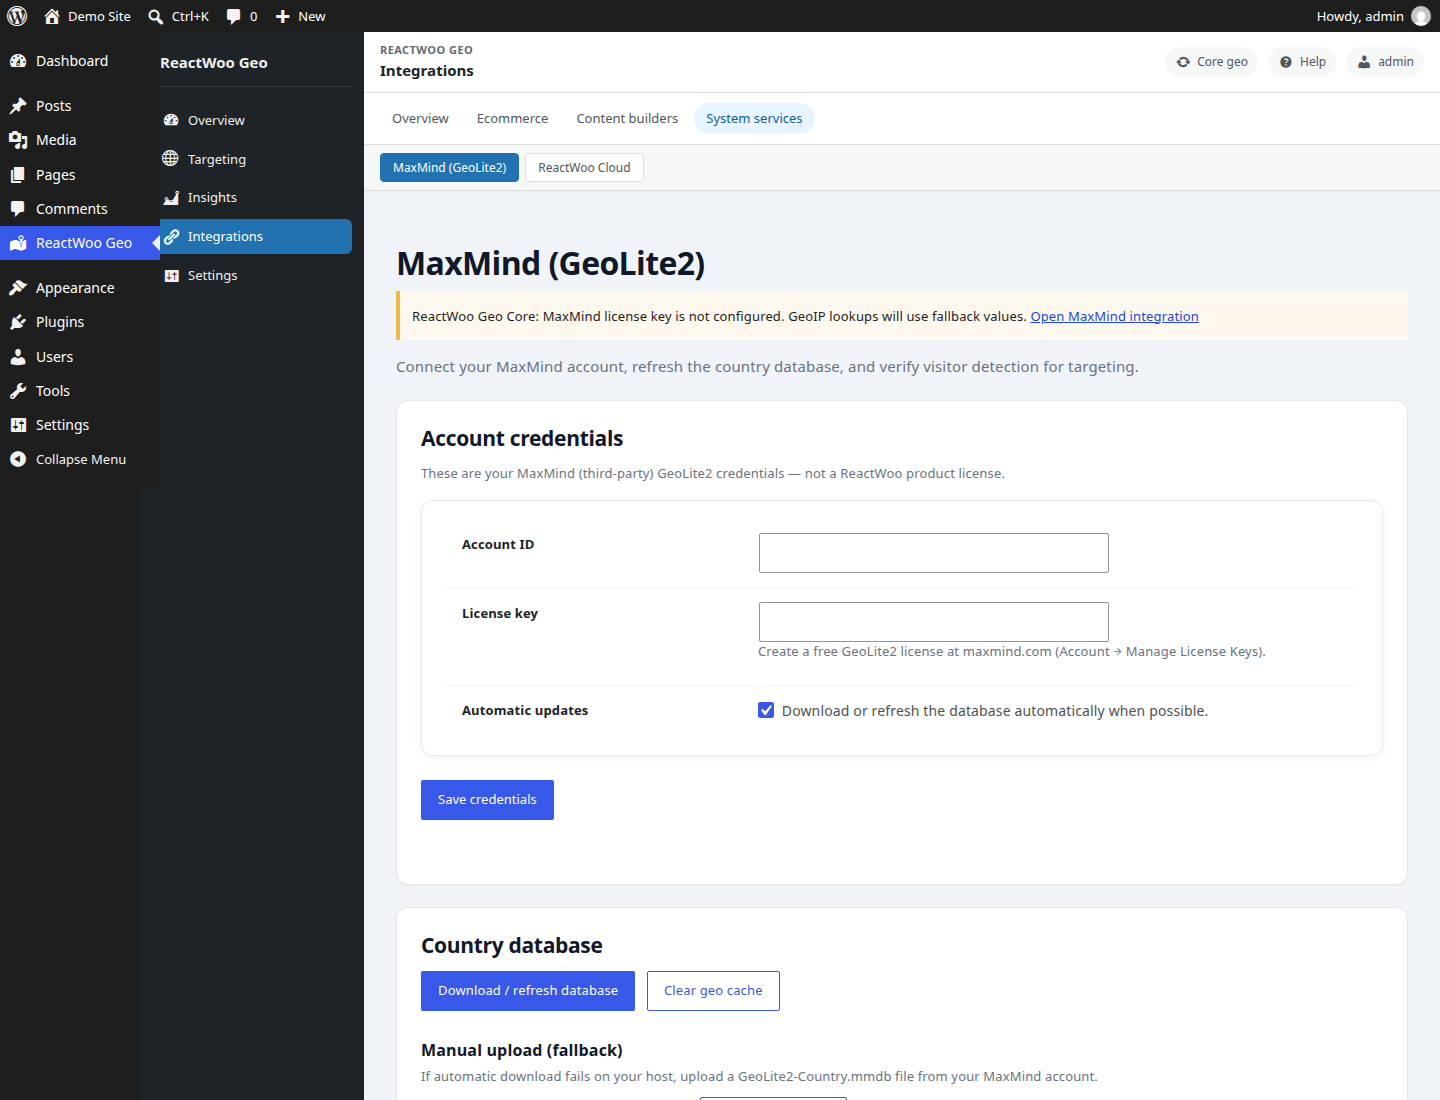
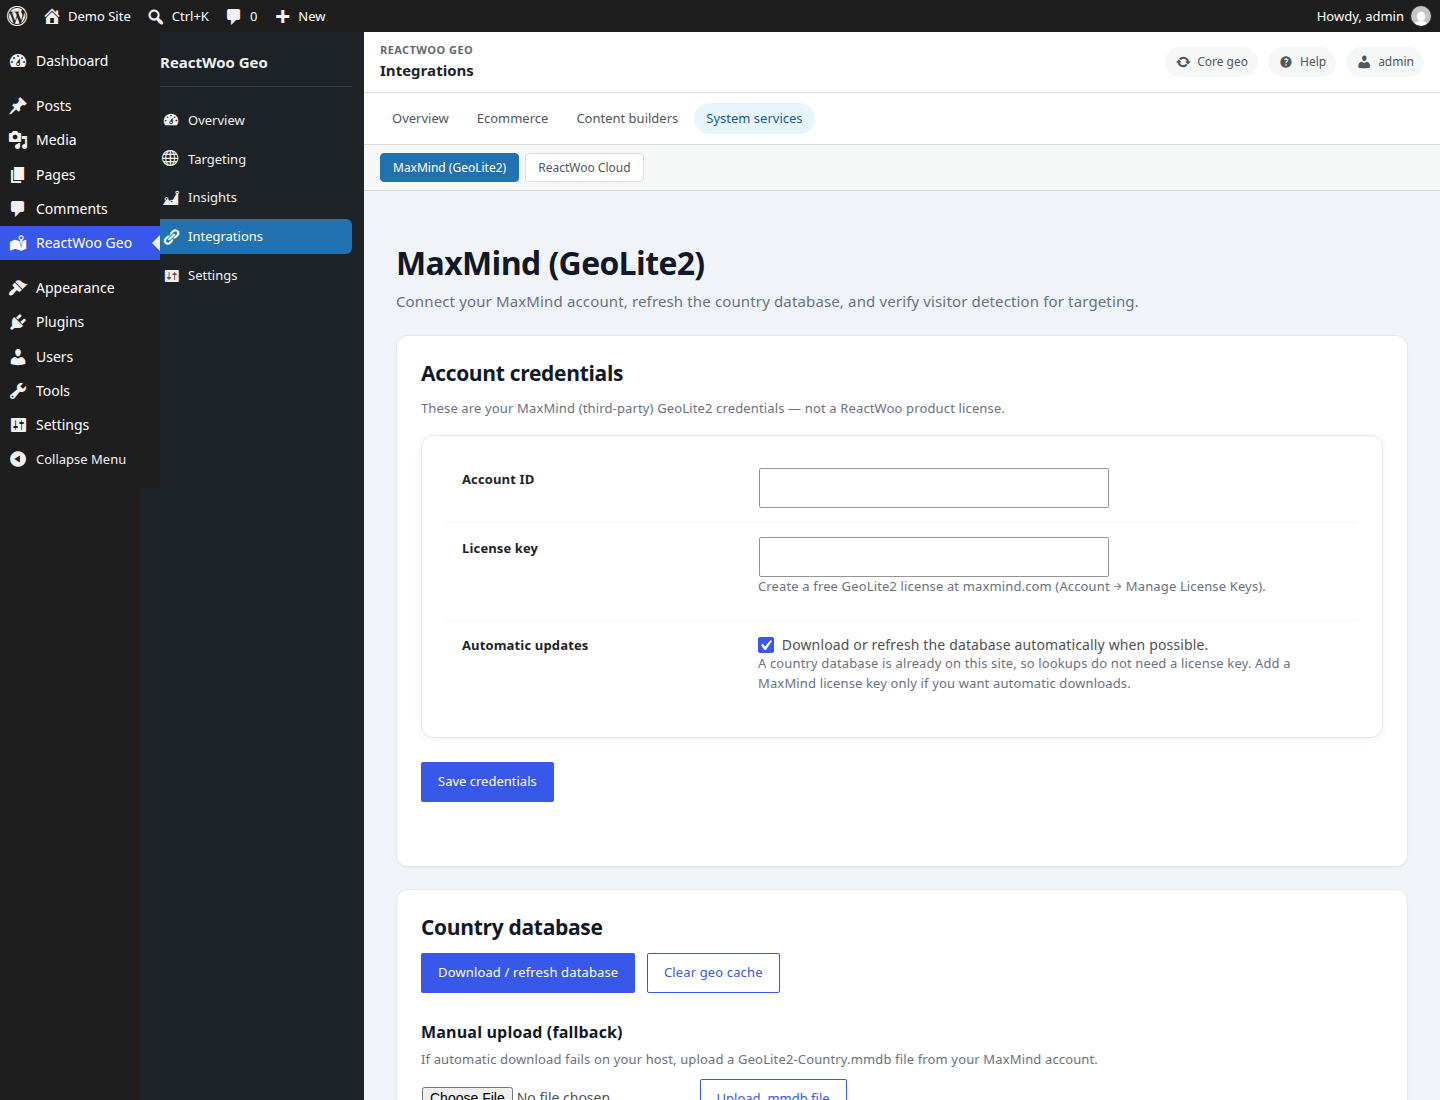
Fix the MaxMind notice and the Geo Content editor script.
Warn only when there is no usable country database and no key to download one. Load the block from file:./index.js so the editor no longer treats it as unsupported.

diff --git a/includes/class-rwgc-maxmind.php b/includes/class-rwgc-maxmind.php
@@ -58,6 +58,61 @@ class RWGC_MaxMind {
 	}
 
 	/**
+	 * Whether a path is a readable MaxMind .mmdb (metadata marker present).
+	 *
+	 * A license key is not required. An uploaded test or production database counts.
+	 *
+	 * @param string|null $path Absolute path. Null uses the configured database path.
+	 * @return bool
+	 */
+	public static function db_is_usable( $path = null ) {
+		if ( null === $path ) {
+			$path = self::get_db_path();
+		}
+		if ( ! is_string( $path ) || '' === $path || ! is_readable( $path ) ) {
+			return false;
+		}
+		if ( 'mmdb' !== strtolower( (string) pathinfo( $path, PATHINFO_EXTENSION ) ) ) {
+			return false;
+		}
+		$size = filesize( $path );
+		if ( false === $size || $size < 128 ) {
+			return false;
+		}
+		$tail_len = (int) min( 131072, $size );
+		// phpcs:ignore WordPress.WP.AlternativeFunctions.file_get_contents_file_get_contents -- Read only the MaxMind metadata tail. WP_Filesystem is not available for this binary check.
+		$tail = file_get_contents( $path, false, null, max( 0, $size - $tail_len ), $tail_len );
+		return is_string( $tail ) && false !== strpos( $tail, "\xab\xcd\xefMaxMind.com" );
+	}
+
+	/**
+	 * Decide the MaxMind admin notice.
+	 *
+	 * A usable database suppresses the license-key warning. The key is required
+	 * only when there is nothing on disk to look up, or for automatic downloads.
+	 *
+	 * @param bool $usable      Readable MaxMind database.
+	 * @param bool $has_license License key saved.
+	 * @param bool $is_stale    Database is past the refresh window.
+	 * @return string Empty when no notice is needed. Otherwise auto_update_hint, stale, no_database, or missing_file.
+	 */
+	public static function admin_notice_code( $usable, $has_license, $is_stale ) {
+		if ( $usable ) {
+			if ( ! $has_license ) {
+				return 'auto_update_hint';
+			}
+			if ( $is_stale ) {
+				return 'stale';
+			}
+			return '';
+		}
+		if ( ! $has_license ) {
+			return 'no_database';
+		}
+		return 'missing_file';
+	}
+
+	/**
 	 * Whether DB appears stale (older than 35 days).
 	 *
 	 * @return bool
@@ -265,6 +320,7 @@ class RWGC_MaxMind {
 		$exists = self::db_exists();
 		return array(
 			'exists'        => $exists,
+			'usable'        => self::db_is_usable(),
 			'path'          => self::get_db_path(),
 			'last_updated'  => RWGC_Settings::get( 'db_last_updated', '' ),
 			'is_stale'      => self::db_is_stale(),

diff --git a/includes/class-rwgc-module-registry.php b/includes/class-rwgc-module-registry.php
@@ -190,19 +190,33 @@ class RWGC_Module_Registry {
 			case self::MODULE_MAXMIND:
 				$settings = class_exists( 'RWGC_Settings', false ) ? RWGC_Settings::get_settings() : array();
 				$has_key  = ! empty( $settings['maxmind_license_key'] );
+				$usable   = class_exists( 'RWGC_MaxMind', false ) && RWGC_MaxMind::db_is_usable();
+				if ( $usable && ! $has_key ) {
+					$detail      = __( 'Country database is on this site. A license key is only needed for automatic updates.', 'reactwoo-geocore' );
+					$status_name = 'ready';
+					$consequence = '';
+				} elseif ( $has_key ) {
+					$detail      = __( 'MaxMind credentials saved.', 'reactwoo-geocore' );
+					$status_name = 'ready';
+					$consequence = '';
+				} else {
+					$detail      = __( 'Upload a country database, or add a MaxMind license key to download one.', 'reactwoo-geocore' );
+					$status_name = 'needs_setup';
+					$consequence = __( 'Without a database, lookups use fallback values.', 'reactwoo-geocore' );
+				}
 				return array_merge(
 					$defaults,
 					array(
-						'status'        => $has_key ? 'ready' : 'needs_setup',
-						'detail'        => $has_key ? __( 'MaxMind credentials saved.', 'reactwoo-geocore' ) : __( 'Add your GeoLite2 license key.', 'reactwoo-geocore' ),
+						'status'        => $status_name,
+						'detail'        => $detail,
 						'configure_url' => function_exists( 'rwgc_get_maxmind_admin_url' ) ? rwgc_get_maxmind_admin_url() : admin_url( 'admin.php?page=rwgc-integrations-maxmind' ),
-						'consequence'   => $has_key ? '' : __( 'Without credentials, downloads and accurate lookups may not work.', 'reactwoo-geocore' ),
+						'consequence'   => $consequence,
 					)
 				);
 
 			case self::MODULE_DB:
-				$status = class_exists( 'RWGC_MaxMind', false ) ? RWGC_MaxMind::get_status() : array( 'exists' => false );
-				$ok     = ! empty( $status['exists'] );
+				$status = class_exists( 'RWGC_MaxMind', false ) ? RWGC_MaxMind::get_status() : array( 'usable' => false );
+				$ok     = ! empty( $status['usable'] );
 				return array_merge(
 					$defaults,
 					array(

diff --git a/includes/class-rwgc-admin.php b/includes/class-rwgc-admin.php
@@ -1506,19 +1506,24 @@ class RWGC_Admin {
 			}
 		}
 
-		$status   = RWGC_MaxMind::get_status();
-		$settings = RWGC_Settings::get_settings();
+		$status = RWGC_MaxMind::get_status();
 
 		$maxmind_url = function_exists( 'rwgc_get_maxmind_admin_url' ) ? rwgc_get_maxmind_admin_url() : admin_url( 'admin.php?page=rwgc-integrations-maxmind' );
+		$notice_code = RWGC_MaxMind::admin_notice_code(
+			! empty( $status['usable'] ),
+			! empty( $status['has_license'] ),
+			! empty( $status['is_stale'] )
+		);
 
-		if ( empty( $settings['maxmind_license_key'] ) ) {
+		// auto_update_hint is shown on the MaxMind screen, not as a warning on every Geo page.
+		if ( 'no_database' === $notice_code ) {
 			printf(
 				'<div class="notice notice-warning rwgc-notice"><p>%1$s <a href="%2$s">%3$s</a></p></div>',
-				esc_html__( 'ReactWoo Geo Core: MaxMind license key is not configured. GeoIP lookups will use fallback values.', 'reactwoo-geocore' ),
+				esc_html__( 'ReactWoo Geo Core: No country database is on this site, and no MaxMind license key is saved to download one. Lookups will use fallback values.', 'reactwoo-geocore' ),
 				esc_url( $maxmind_url ),
 				esc_html__( 'Open MaxMind integration', 'reactwoo-geocore' )
 			);
-		} elseif ( ! $status['exists'] ) {
+		} elseif ( 'missing_file' === $notice_code ) {
 			if ( ! empty( $status['last_error'] ) ) {
 				printf(
 					'<div class="notice notice-warning rwgc-notice"><p>%1$s <a href="%2$s">%3$s</a></p><p><code>%4$s</code></p></div>',
@@ -1535,7 +1540,7 @@ class RWGC_Admin {
 					esc_html__( 'Download or upload the database', 'reactwoo-geocore' )
 				);
 			}
-		} elseif ( $status['is_stale'] ) {
+		} elseif ( 'stale' === $notice_code ) {
 			printf(
 				'<div class="notice notice-info rwgc-notice"><p>%1$s <a href="%2$s">%3$s</a></p></div>',
 				esc_html__( 'ReactWoo Geo Core: MaxMind database may be stale.', 'reactwoo-geocore' ),

diff --git a/tests/Engine/RWGC_MaxMindDatabaseTest.php b/tests/Engine/RWGC_MaxMindDatabaseTest.php
@@ -1,0 +1,47 @@
+<?php
+
+use PHPUnit\Framework\TestCase;
+
+/**
+ * @covers RWGC_MaxMind
+ */
+final class RWGC_MaxMindDatabaseTest extends TestCase {
+
+	public static function setUpBeforeClass(): void {
+		require_once dirname( __DIR__, 2 ) . '/includes/class-rwgc-maxmind.php';
+	}
+
+	public function test_notice_is_silent_when_a_database_is_usable_without_a_license_key(): void {
+		$this->assertSame( 'auto_update_hint', RWGC_MaxMind::admin_notice_code( true, false, false ) );
+	}
+
+	public function test_notice_warns_only_when_database_and_license_key_are_both_missing(): void {
+		$this->assertSame( 'no_database', RWGC_MaxMind::admin_notice_code( false, false, false ) );
+	}
+
+	public function test_notice_asks_for_the_file_when_a_license_key_is_saved(): void {
+		$this->assertSame( 'missing_file', RWGC_MaxMind::admin_notice_code( false, true, false ) );
+	}
+
+	public function test_notice_mentions_a_stale_database_only_when_a_key_can_refresh_it(): void {
+		$this->assertSame( 'stale', RWGC_MaxMind::admin_notice_code( true, true, true ) );
+		$this->assertSame( 'auto_update_hint', RWGC_MaxMind::admin_notice_code( true, false, true ) );
+	}
+
+	public function test_usable_database_requires_the_maxmind_marker(): void {
+		$dir = sys_get_temp_dir() . '/rwgc-mmdb-' . bin2hex( random_bytes( 4 ) );
+		mkdir( $dir );
+		$good = $dir . '/GeoLite2-Country.mmdb';
+		$bad  = $dir . '/notes.mmdb';
+		file_put_contents( $good, str_repeat( 'a', 200 ) . "\xab\xcd\xefMaxMind.com" );
+		file_put_contents( $bad, str_repeat( 'b', 200 ) );
+
+		$this->assertTrue( RWGC_MaxMind::db_is_usable( $good ) );
+		$this->assertFalse( RWGC_MaxMind::db_is_usable( $bad ) );
+		$this->assertFalse( RWGC_MaxMind::db_is_usable( $dir . '/missing.mmdb' ) );
+
+		unlink( $good );
+		unlink( $bad );
+		rmdir( $dir );
+	}
+}

diff --git a/includes/class-rwgc-onboarding.php b/includes/class-rwgc-onboarding.php
@@ -242,7 +242,7 @@ class RWGC_Onboarding {
 		$maxmind_ok = false;
 		if ( class_exists( 'RWGC_MaxMind', false ) ) {
 			$status   = RWGC_MaxMind::get_status();
-			$db_ready = ! empty( $status['exists'] );
+			$db_ready = ! empty( $status['usable'] );
 		}
 		if ( class_exists( 'RWGC_Settings', false ) ) {
 			$maxmind_ok = '' !== trim( (string) RWGC_Settings::get( 'maxmind_license_key', '' ) );
@@ -284,10 +284,12 @@ class RWGC_Onboarding {
 			array(
 				'id'       => 'geo_database',
 				'label'    => __( 'Geo database ready', 'reactwoo-geocore' ),
-				'done'     => $db_ready && $maxmind_ok,
+				'done'     => $db_ready,
 				'url'      => function_exists( 'rwgc_get_maxmind_admin_url' ) ? rwgc_get_maxmind_admin_url() : admin_url( 'admin.php?page=rwgc-integrations-maxmind' ),
 				'optional' => false,
-				'hint'     => __( 'MaxMind credentials and country database (Integrations).', 'reactwoo-geocore' ),
+				'hint'     => ( $db_ready && ! $maxmind_ok )
+					? __( 'Country database is on this site. A MaxMind license key is only needed for automatic updates.', 'reactwoo-geocore' )
+					: __( 'Upload a country database, or save a MaxMind license key to download one.', 'reactwoo-geocore' ),
 			),
 			array(
 				'id'       => 'detection',

diff --git a/tests/test-rwgc-wporg-build.php b/tests/test-rwgc-wporg-build.php
@@ -77,6 +77,13 @@ if ( preg_match( '/^License URI:.*\R\R(.+)\R/m', $readme, $short_match ) ) {
 	$short = trim( $short_match[1] );
 }
 rwgc_wporg_assert( 'short description within 150 characters (' . strlen( $short ) . ')', strlen( $short ) > 0 && strlen( $short ) <= 150 );
+$block_json = (string) file_get_contents( $root . '/blocks/geo-content/block.json' );
+$block_asset = (string) file_get_contents( $root . '/blocks/geo-content/index.asset.php' );
+rwgc_wporg_assert( 'geo content editor script is a file', false !== strpos( $block_json, '"editorScript": "file:./index.js"' ) );
+rwgc_wporg_assert( 'geo content editor handle is registered from the asset file', false !== strpos( $block_asset, "'rwgc-geo-content-editor'" ) );
+$admin = (string) file_get_contents( $root . '/includes/class-rwgc-admin.php' );
+rwgc_wporg_assert( 'license-key warning is not the only MaxMind notice', false === strpos( $admin, 'MaxMind license key is not configured' ) );
+rwgc_wporg_assert( 'missing database notice uses the notice code', false !== strpos( $admin, 'admin_notice_code' ) );
 
 if ( $failed > 0 ) {
 	fwrite( STDERR, "\n$failed assertion(s) failed\n" );

diff --git a/admin/views/integrations-maxmind-page.php b/admin/views/integrations-maxmind-page.php
@@ -76,6 +76,11 @@ settings_errors( 'rwgc_maxmind' );
 							<input type="checkbox" name="auto_update_db" value="1" <?php checked( ! empty( $settings['auto_update_db'] ) ); ?> />
 							<?php esc_html_e( 'Download or refresh the database automatically when possible.', 'reactwoo-geocore' ); ?>
 						</label>
+						<?php if ( ! empty( $status['usable'] ) && empty( $status['has_license'] ) ) : ?>
+							<p class="description">
+								<?php esc_html_e( 'A country database is already on this site, so lookups do not need a license key. Add a MaxMind license key only if you want automatic downloads.', 'reactwoo-geocore' ); ?>
+							</p>
+						<?php endif; ?>
 					</td>
 				</tr>
 			</table>

diff --git a/includes/class-rwgc-gutenberg.php b/includes/class-rwgc-gutenberg.php
@@ -17,7 +17,7 @@ class RWGC_Gutenberg {
 	public static function init() {
 		add_action( 'init', array( __CLASS__, 'register_blocks' ) );
 		add_action( 'enqueue_block_editor_assets', array( __CLASS__, 'inline_portable_editor_context' ), 5 );
-		add_action( 'enqueue_block_editor_assets', array( __CLASS__, 'inject_editor_country_options' ) );
+		add_action( 'enqueue_block_editor_assets', array( __CLASS__, 'inject_editor_country_options' ), 11 );
 	}
 
 	/**

diff --git a/blocks/geo-content/index.asset.php b/blocks/geo-content/index.asset.php
@@ -1,0 +1,20 @@
+<?php
+/**
+ * Asset metadata for the Geo Content editor script.
+ *
+ * The handle stays rwgc-geo-content-editor so editor inline data and the rule-builder dependency can find it.
+ *
+ * @package ReactWooGeoCore
+ */
+
+return array(
+	'dependencies' => array(
+		'wp-blocks',
+		'wp-element',
+		'wp-block-editor',
+		'wp-components',
+		'wp-i18n',
+	),
+	'handle'       => 'rwgc-geo-content-editor',
+	'version'      => '1.9.0',
+);

diff --git a/ai-handoff/cursor-output.md b/ai-handoff/cursor-output.md
@@ -3,6 +3,39 @@
 ## Status
 done
 
+Directory bugfixes on PR #74, still untagged. `publish-update.yml` untouched.
+
+## This pass
+
+- MaxMind admin warning now uses `RWGC_MaxMind::admin_notice_code()`. A usable `.mmdb` with no license key does not raise the license-key warning. The global warning is only `no_database` (nothing usable and no key) or `missing_file` (key saved, file missing). A stale database that also has a key still shows the existing info notice. The automatic-update hint stays on the MaxMind screen and on the Overview setup step.
+- Geo Content `editorScript` is `file:./index.js`. `blocks/geo-content/index.asset.php` keeps the handle `rwgc-geo-content-editor`. Country options are injected after WordPress enqueues that script.
+- Verified on WordPress 7.1.3 with the directory zip: Overview has no admin notice, “Geo database ready” is checked, and the block editor inserts Geo Content with United Kingdom selected. Not the unsupported-block recovery UI.
+- Screenshots 1–6 replaced. Screenshot 1 is Overview. Screenshot 2 is the Geo Content block in the editor.
+
+## Checks
+- `php -l` on changed PHP: no syntax errors.
+- `php tests/test-rwgc-wporg-build.php`: passed.
+- `RWGC_MaxMindDatabaseTest`: 5 tests, 8 assertions, OK.
+- PHPUnit: 102 tests, 374 assertions, 9 errors, 7 failures. Same 9 errors and 7 failures as main (97 tests, 366 assertions). The extra tests are the new MaxMind cases.
+- Plugin Check 2.1.0 on the installed WordPress.org build, WordPress 7.1.3: 0 errors, 375 warnings. Same warning groups as the previous pass.
+- `python scripts/package_zip.py --target wporg` includes `file:./index.js` and the asset handle, and the admin class no longer contains “license key is not configured”.
+
+## Files changed
+- `includes/class-rwgc-maxmind.php`, `includes/class-rwgc-admin.php`, `includes/class-rwgc-onboarding.php`, `includes/class-rwgc-module-registry.php`, `admin/views/integrations-maxmind-page.php`
+- `blocks/geo-content/block.json`, `blocks/geo-content/index.asset.php`, `includes/class-rwgc-gutenberg.php`
+- `tests/Engine/RWGC_MaxMindDatabaseTest.php`, `tests/test-rwgc-wporg-build.php`
+- `readme.txt`, `CHANGELOG.md`, `.wordpress-org/screenshot-1.png` through `screenshot-6.png`
+
+## What was not changed
+- Version stays 1.9.0. No tag, no release, no edit to `.github/workflows/publish-update.yml`.
+- Icon and banner files were not redesigned.
+- The ReactWoo updater class was not edited.
+
+Previous branding notes follow. The license-key warning and unsupported Geo Content block described there are fixed by this pass.
+
+## Status
+done
+
 Branding follow-up on PR #74: owner-approved icon and banners, tagline, recaptured screenshots. Not tagged. publish-update.yml untouched.
 
 ## Branding pass

diff --git a/CHANGELOG.md b/CHANGELOG.md
@@ -9,6 +9,10 @@ and this project adheres to [Semantic Versioning](https://semver.org/spec/v2.0.0
 
 ## [1.9.0] - 2026-10-09
 
+### Fixed
+- An uploaded country database no longer shows the MaxMind license-key warning. The warning appears only when there is no usable database and no license key to download one.
+- The Geo Content block registers its editor script, so the block editor can insert it.
+
 ### Changed
 - Requires PHP 8.1, matching the MaxMind libraries shipped in `vendor/`.
 - Anonymous Cloud telemetry, including the `rwgc_vid` cookie, stays off until an administrator opts in on the ReactWoo Cloud screen.
